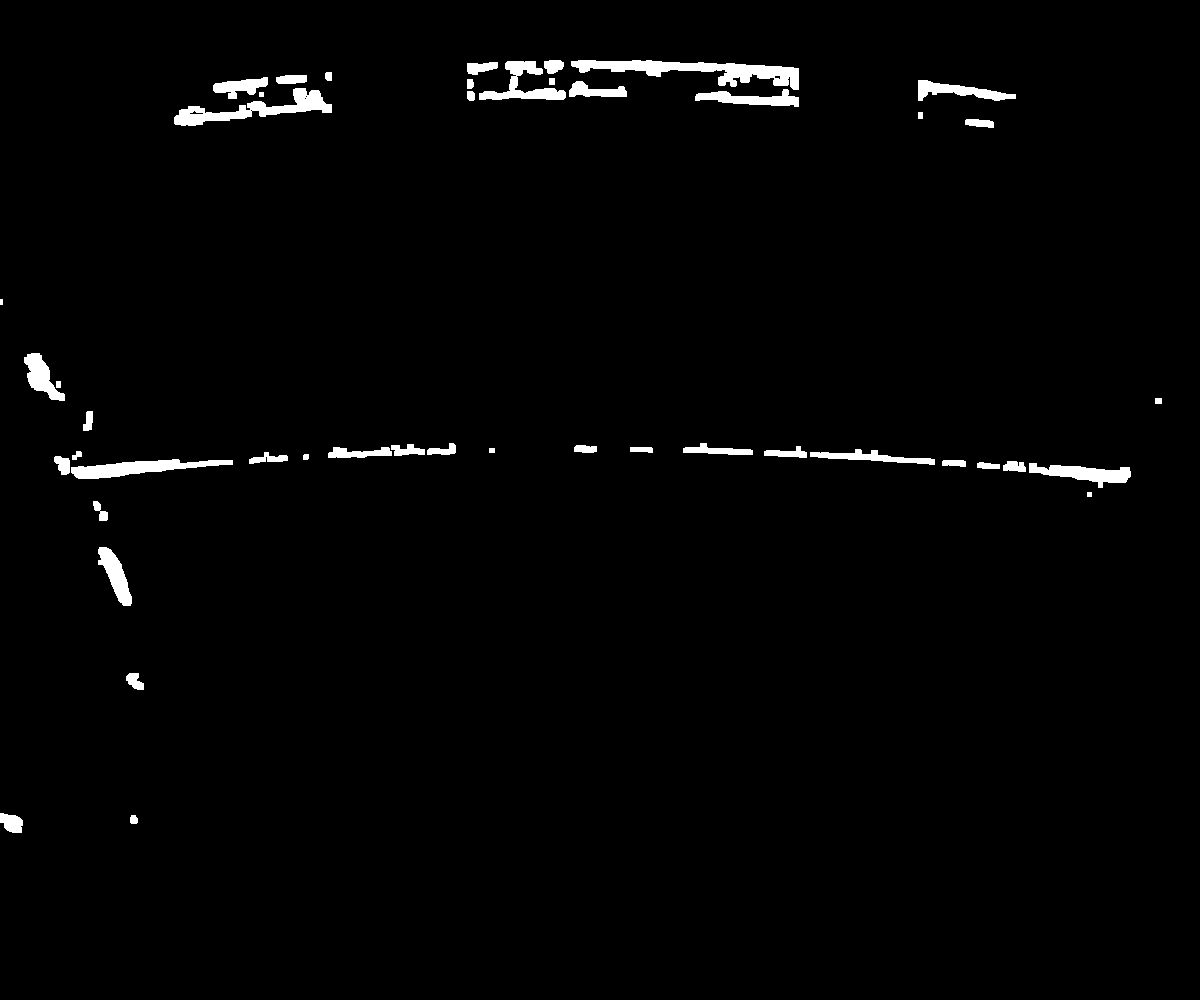
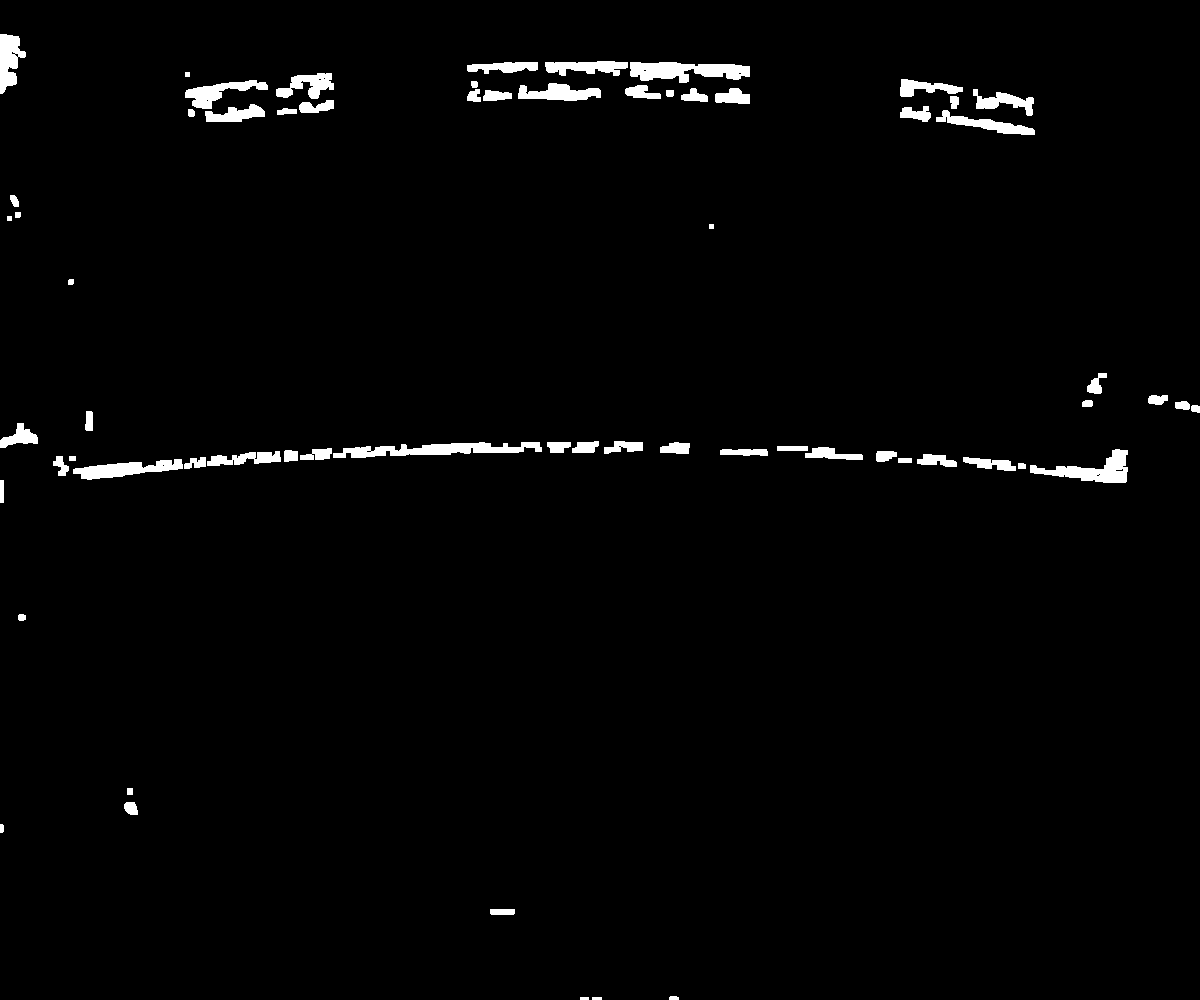
ball: detection not working as it should, need to explore tracknet

diff --git a/core/ball_tracker.py b/core/ball_tracker.py
@@ -1,96 +1,13 @@
-# import cv2
-# import numpy as np
-
-
-# class BallTracker:
-#     def __init__(self, max_history=30):
-#         self.prev_gray = None
-#         self.history = []
-#         self.max_history = max_history
-
-#     def update(self, frame, ignore_boxes=None, debug=False):
-#         gray = cv2.cvtColor(frame, cv2.COLOR_BGR2GRAY)
-#         gray = cv2.GaussianBlur(gray, (5, 5), 0)
-
-#         if self.prev_gray is None:
-#             self.prev_gray = gray
-#             return None
-
-#         diff = cv2.absdiff(self.prev_gray, gray)
-#         self.prev_gray = gray
-
-#         _, motion = cv2.threshold(diff, 12, 255, cv2.THRESH_BINARY)
-
-#         hsv = cv2.cvtColor(frame, cv2.COLOR_BGR2HSV)
-#         yellow = cv2.inRange(hsv, (18, 30, 80), (48, 255, 255))
-#         white  = cv2.inRange(hsv, (0, 0, 160), (180, 60, 255))
-#         color_mask = cv2.bitwise_or(yellow, white)
-#         mask = cv2.bitwise_and(motion, color_mask)
-
-#         player_mask = np.zeros_like(motion)
-#         if ignore_boxes is not None:
-#             for x1, y1, x2, y2 in ignore_boxes:
-#                 x1 = max(0, x1 - 20)
-#                 y1 = max(0, y1 - 20)
-#                 x2 = min(mask.shape[1], x2 + 20)
-#                 y2 = min(mask.shape[0], y2 + 60)
-#                 player_mask[y1:y2, x1:x2] = 255
-
-#         mask = cv2.bitwise_and(mask, cv2.bitwise_not(player_mask))
-
-#         kernel = np.ones((3, 3), np.uint8)
-#         mask = cv2.dilate(mask, kernel, iterations=1)
-        
-#         if debug:
-#             cv2.imwrite(f"output/masks/mask_{len(self.history):04d}.png", mask)      
-
-#         contours, _ = cv2.findContours(mask, cv2.RETR_EXTERNAL, cv2.CHAIN_APPROX_SIMPLE)
-
-#         candidates = []
-#         for c in contours:
-#             area = cv2.contourArea(c)
-#             if area < 1 or area > 300:
-#                 continue
-#             x, y, w, h = cv2.boundingRect(c)
-#             if w == 0 or h == 0:
-#                 continue
-#             ratio = w / h
-#             if ratio < 0.2 or ratio > 6.0:
-#                 continue
-#             cx = x + w // 2
-#             cy = y + h // 2
-#             candidates.append((cx, cy, area))
-
-#         if not candidates:
-#             return None
-
-#         if self.history:
-#             lx, ly = self.history[-1]
-#             candidates.sort(key=lambda p: (p[0]-lx)**2 + (p[1]-ly)**2)
-#         else:
-#             candidates.sort(key=lambda p: p[2], reverse=True)
-
-#         point = (int(candidates[0][0]), int(candidates[0][1]))
-#         self.history.append(point)
-#         if len(self.history) > self.max_history:
-#             self.history.pop(0)
-#         return point
-
-#     def get_history(self):
-#         return self.history
-    
-
 import cv2
 import numpy as np
 
 
 MAX_JUMP = 250
-MIN_JUMP = 2
 LOST_LIMIT = 8
 
 class BallTracker:
     def __init__(self, max_history=30):
-        self.prev_gray = None
+        self.frame_buffer = []
         self.history = []
         self.max_history = max_history
         self.lost_count = 0
@@ -100,55 +17,51 @@ class BallTracker:
             return None
         x1, y1 = self.history[-2]
         x2, y2 = self.history[-1]
-        vx = x2 - x1
-        vy = y2 - y1
-        # clamp velocity so prediction doesn't fly off screen
-        vx = np.clip(vx, -MAX_JUMP, MAX_JUMP)
-        vy = np.clip(vy, -MAX_JUMP, MAX_JUMP)
+        vx = np.clip(x2 - x1, -MAX_JUMP, MAX_JUMP)
+        vy = np.clip(y2 - y1, -MAX_JUMP, MAX_JUMP)
         return (x2 + vx, y2 + vy)
 
-    def _score_candidate(self, cx, cy, pred, last):
-        if pred is not None:
-            dx = cx - pred[0]
-            dy = cy - pred[1]
-            return dx*dx + dy*dy
-        elif last is not None:
-            dx = cx - last[0]
-            dy = cy - last[1]
-            return dx*dx + dy*dy
-        return 0
+    def _score(self, cx, cy, pred, last):
+        ref = pred if pred is not None else last
+        if ref is None:
+            return 0
+        return (cx - ref[0])**2 + (cy - ref[1])**2
 
     def update(self, frame, ignore_boxes=None, debug=False):
         gray = cv2.cvtColor(frame, cv2.COLOR_BGR2GRAY)
         gray = cv2.GaussianBlur(gray, (5, 5), 0)
 
-        if self.prev_gray is None:
-            self.prev_gray = gray
+        self.frame_buffer.append(gray)
+        if len(self.frame_buffer) > 3:
+            self.frame_buffer.pop(0)
+
+        if len(self.frame_buffer) < 2:
             return None
 
-        diff = cv2.absdiff(self.prev_gray, gray)
-        self.prev_gray = gray
-
-        _, motion = cv2.threshold(diff, 12, 255, cv2.THRESH_BINARY)
+        diff = cv2.absdiff(self.frame_buffer[0], self.frame_buffer[-1])
+        _, motion = cv2.threshold(diff, 6, 255, cv2.THRESH_BINARY)
 
         hsv = cv2.cvtColor(frame, cv2.COLOR_BGR2HSV)
-        yellow = cv2.inRange(hsv, (18, 30, 80), (48, 255, 255))
-        white  = cv2.inRange(hsv, (0, 0, 160), (180, 60, 255))
-        color_mask = cv2.bitwise_or(yellow, white)
+
+        # padel ball: yellow, green-yellow, washed white
+        yellow      = cv2.inRange(hsv, (15, 20, 60),  (50, 255, 255))
+        white       = cv2.inRange(hsv, (0,  0,  140), (180, 50, 255))
+        color_mask  = cv2.bitwise_or(yellow, white)
+
         mask = cv2.bitwise_and(motion, color_mask)
 
         if ignore_boxes is not None:
             player_mask = np.zeros_like(motion)
             for x1, y1, x2, y2 in ignore_boxes:
                 px1 = max(0, x1 - 25)
-                py1 = max(0, y1 - 40)   # cover racket raised above head
+                py1 = max(0, y1 - 50)
                 px2 = min(mask.shape[1], x2 + 25)
                 py2 = min(mask.shape[0], y2 + 20)
                 player_mask[py1:py2, px1:px2] = 255
             mask = cv2.bitwise_and(mask, cv2.bitwise_not(player_mask))
 
         kernel = np.ones((3, 3), np.uint8)
-        mask = cv2.dilate(mask, kernel, iterations=1)
+        mask = cv2.dilate(mask, kernel, iterations=2)
 
         if debug:
             cv2.imwrite(f"output/masks/mask_{len(self.history):04d}.png", mask)
@@ -158,13 +71,13 @@ class BallTracker:
         candidates = []
         for c in contours:
             area = cv2.contourArea(c)
-            if area < 1 or area > 300:
+            if area < 1 or area > 500:
                 continue
             x, y, w, h = cv2.boundingRect(c)
             if w == 0 or h == 0:
                 continue
             ratio = w / h
-            if ratio < 0.2 or ratio > 6.0:
+            if ratio < 0.15 or ratio > 7.0:
                 continue
             cx = x + w // 2
             cy = y + h // 2
@@ -181,7 +94,7 @@ class BallTracker:
 
         if last is not None:
             candidates = [
-                (cx, cy, area) for cx, cy, area in candidates
+                (cx, cy, a) for cx, cy, a in candidates
                 if (cx - last[0])**2 + (cy - last[1])**2 <= MAX_JUMP**2
             ]
 
@@ -191,7 +104,7 @@ class BallTracker:
                 self.history = self.history[-1:] if self.history else []
             return None
 
-        candidates.sort(key=lambda p: self._score_candidate(p[0], p[1], pred, last))
+        candidates.sort(key=lambda p: self._score(p[0], p[1], pred, last))
 
         self.lost_count = 0
         point = (int(candidates[0][0]), int(candidates[0][1]))
@@ -202,5 +115,4 @@ class BallTracker:
 
     def get_history(self):
         return self.history
-    
     
